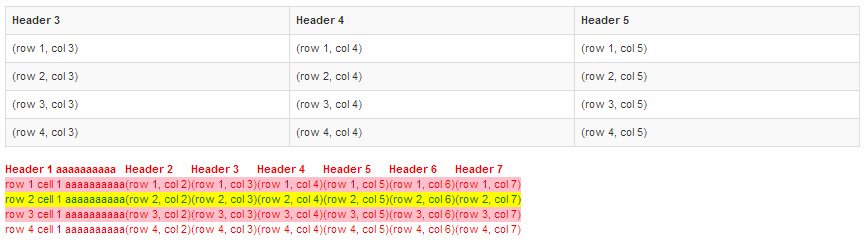
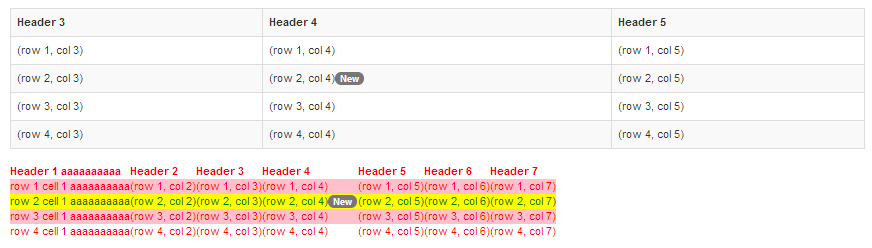
Editing table/reademe.md

diff --git a/public/table.html b/public/table.html
@@ -18,8 +18,10 @@
         ['row 4 cell 1 aaaaaaaaaa', '(row 4, col 2)', '(row 4, col 3)', '(row 4, col 4)', '(row 4, col 5)', '(row 4, col 6)', '(row 4, col 7)']
       ];
 
-      this.table1 = new mc.Table.controller(table);
       this.table2 = new mc.Table.controller(m.prop(table));
+
+      table[2][3] = [m('span','(row 2, col 4)'), m('span.badge', 'New')];
+      this.table1 = new mc.Table.controller(table);
     },
 
     view: function (ctrl) {

diff --git a/components/table/readme.md b/components/table/readme.md
@@ -28,8 +28,10 @@ controller: function () {
     ['row 4 cell 1 aaaaaaaaaa', '(row 4, col 2)', '(row 4, col 3)', '(row 4, col 4)', '(row 4, col 5)', '(row 4, col 6)', '(row 4, col 7)']
   ];
 
-  this.table1 = new mc.Table.controller(table);
-  this.table2 = new mc.Table.controller(m.prop(table));
+    this.table2 = new mc.Table.controller(m.prop(table));
+
+    table[2][3] = [m('span','(row 2, col 4)'), m('span.badge', 'New')];
+    this.table1 = new mc.Table.controller(table);
 },
 
 view: function (ctrl) {
@@ -66,8 +68,11 @@ controller: function () {
 }
 ```
 
-* `table {fcn | str | number}` 
-The table to display.
+* `table {fcn | array of arrays}` 
+The table to display. 
+It is or returns an array of rows, each row containing column cells.
+    * `cell {str | numb | fcn | m() | array of m()}` the cell value.
+    A fcn is called.
 
 ## View
 ```
